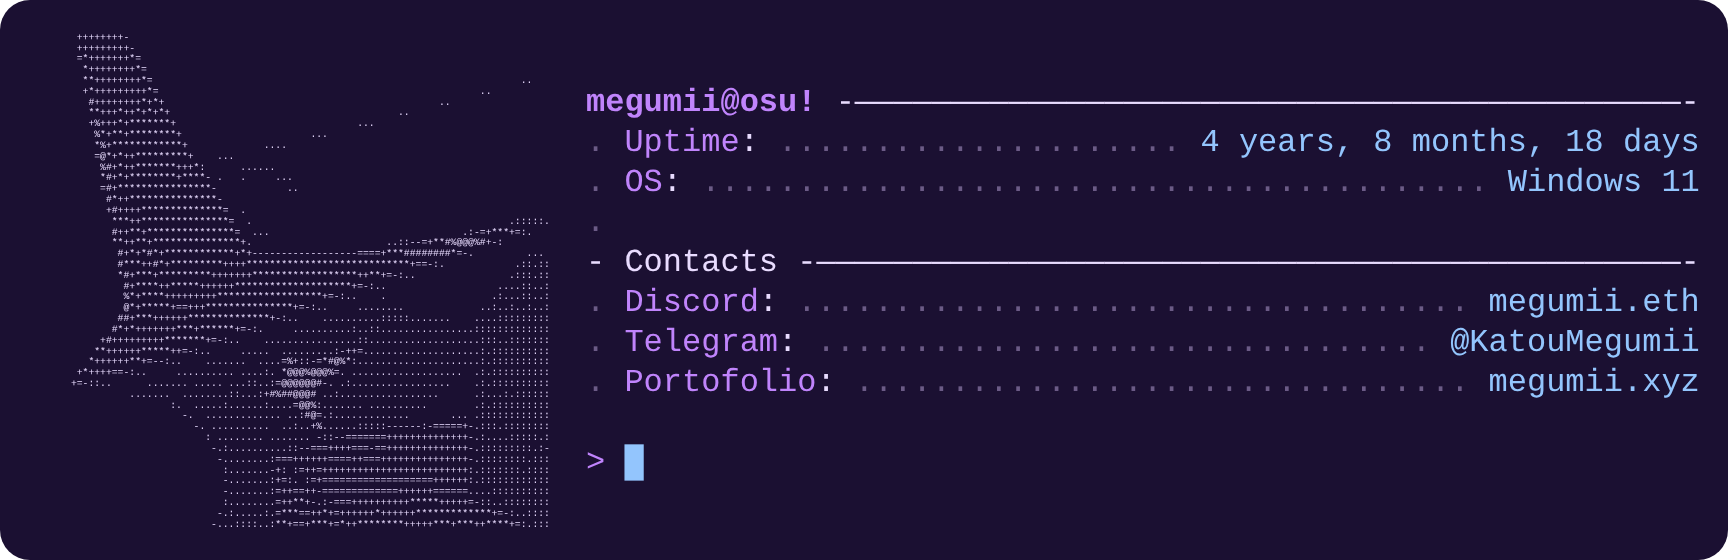
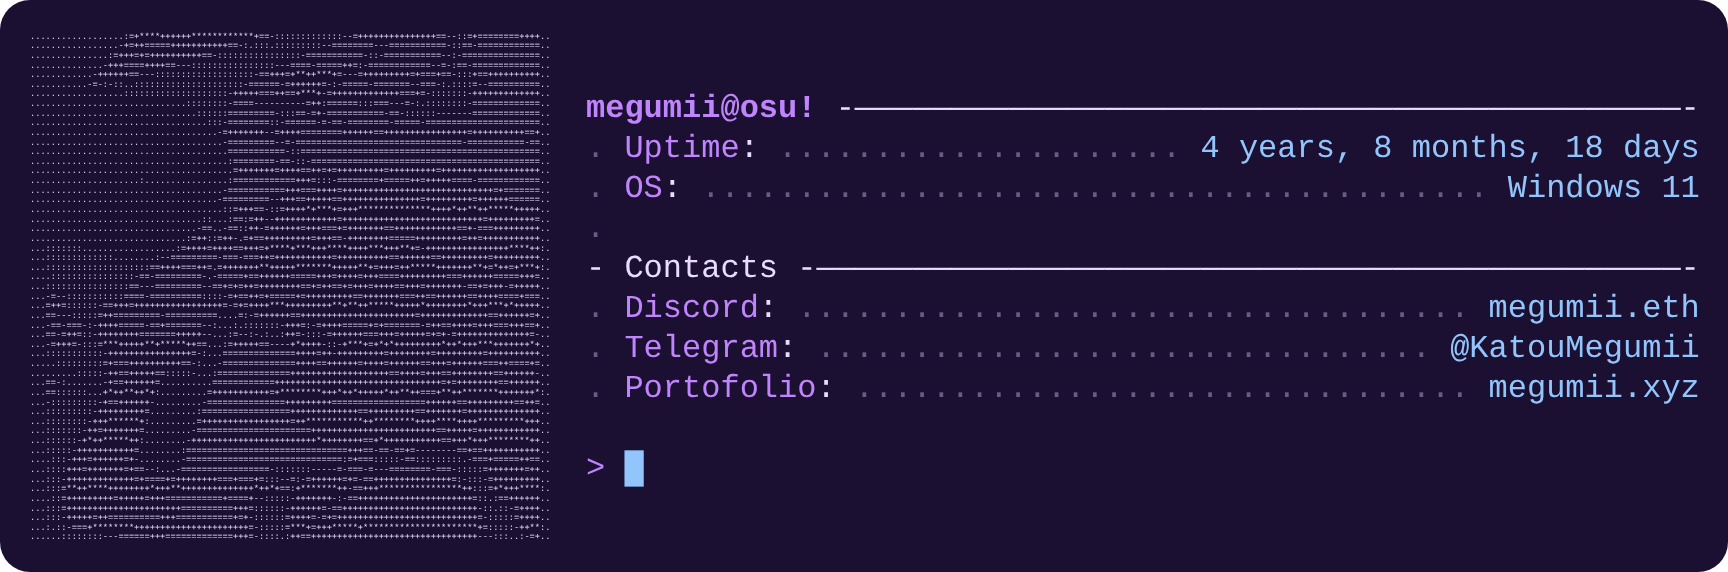
osu bio card: draw the drinking scene instead of the robot-head portrait
The art is now the picture megumii picked (profile, bottle, overhang, night
sky), converted on a 100x53 grid so the card stays 864x286 -- the height that
already fit the me! box without scrolling.

make_ascii gains --invert: this source is a light subject on a dark backdrop,
so ink has to follow brightness rather than darkness or the figure would come
out as the emptiest cells.

diff --git a/tools/profile/make_ascii.py b/tools/profile/make_ascii.py
@@ -84,7 +84,7 @@ def flood_background(im: Image.Image) -> list[list[bool]]:
     return mask
 
 
-def to_ascii(im: Image.Image, cols: int, rows: int) -> list[str]:
+def to_ascii(im: Image.Image, cols: int, rows: int, invert: bool = False) -> list[str]:
     # Key the background BEFORE dropping the alpha channel, or a cut-out PNG
     # would look fully opaque and the whole frame would come out inked.
     bg = key_background(im)
@@ -108,7 +108,10 @@ def to_ascii(im: Image.Image, cols: int, rows: int) -> list[str]:
                     kept += 1
                     r_, g_, b_ = px[x, y]
                     lum = (0.299 * r_ + 0.587 * g_ + 0.114 * b_) / 255
-                    ink += 1.0 - lum
+                    # Dark-ink-on-white sources want 1-lum; a light figure on a
+                    # dark backdrop (the osu! bio art) wants lum, or the subject
+                    # comes out as the emptiest cells instead of the densest.
+                    ink += lum if invert else 1.0 - lum
             if not total or kept / total < MIN_COVERAGE:
                 line.append(" ")
                 continue
@@ -124,10 +127,15 @@ def main() -> None:
     ap.add_argument("out")
     ap.add_argument("--cols", type=int, default=269)
     ap.add_argument("--rows", type=int, default=298)
+    ap.add_argument(
+        "--invert",
+        action="store_true",
+        help="light subject on a dark backdrop: ink follows brightness, not darkness",
+    )
     args = ap.parse_args()
 
     src = Path(args.image)
-    lines = to_ascii(Image.open(src), args.cols, args.rows)
+    lines = to_ascii(Image.open(src), args.cols, args.rows, invert=args.invert)
 
     # Trim the empty frame so the art sits tight in the card.
     keep_rows = [i for i, l in enumerate(lines) if l.strip()]

diff --git a/tools/osu_card/build_card.py b/tools/osu_card/build_card.py
@@ -54,15 +54,12 @@ CONTACTS = [
 PLATE = "#1B1032"
 
 # osu!'s "me!" box scrolls when the image is tall, so this card is deliberately
-# short: the panel is only 8 rows, and letting the 47-row detail portrait set
-# the height would leave ~600px of empty plate. The 26-row line art at a narrow
-# column keeps the whole card around one panel tall -- no scrolling, no crop.
-ART_SRC = bc.ASCII_SRC          # 100x80 line art (light ink, for a dark plate)
+# short: the panel is only 8 rows, and a full-height portrait would leave a lot
+# of empty plate. The bio art is a 100x53 grid (square-ish source, cell aspect
+# 0.54), which at a 260px column lands the card at ~864x286 -- one panel tall.
+ART_SRC = ROOT / "assets" / "ascii-art-osu.txt"
 ART_COL_WIDTH = 260.0
-# Only the top of the portrait is drawn: hat, face, shoulders. The full 80 rows
-# would make the card ~430px tall for an 8-row panel, which is what forced the
-# osu! bio to scroll.
-ART_LINES = 46
+ART_LINES = 53  # the whole scene: figure, overhang, night sky
 
 OUT_DIR = ROOT / "public" / "readme"
 SVG_OUT = OUT_DIR / "card_osu.svg"
